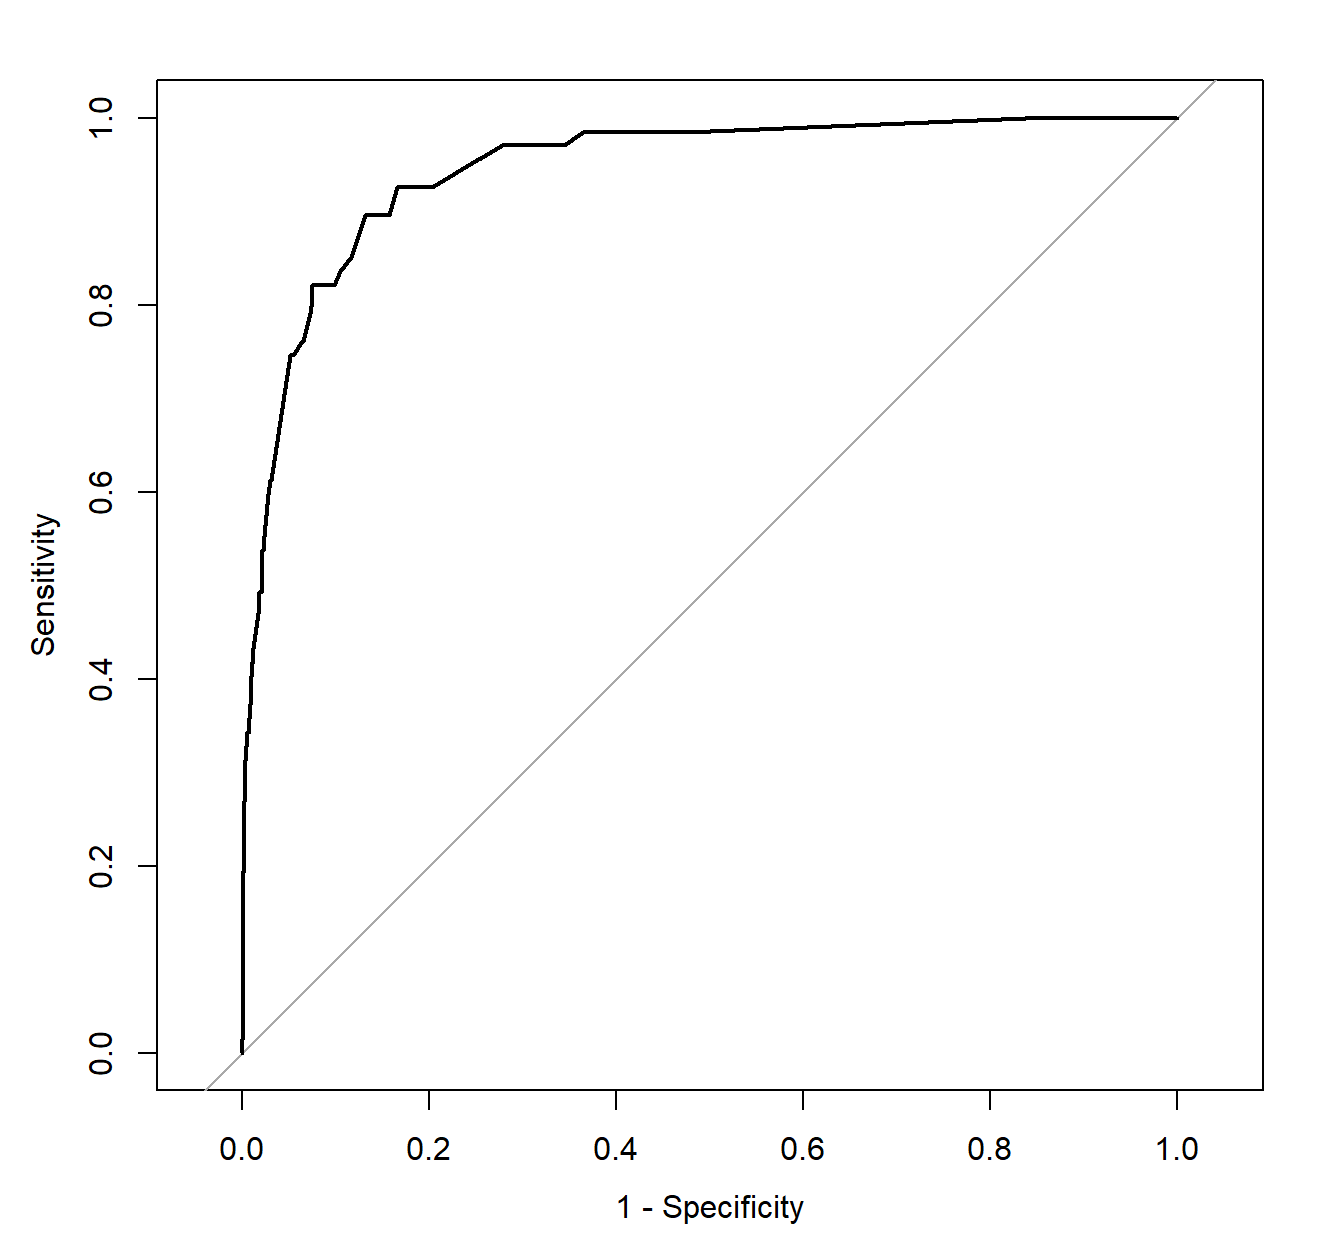
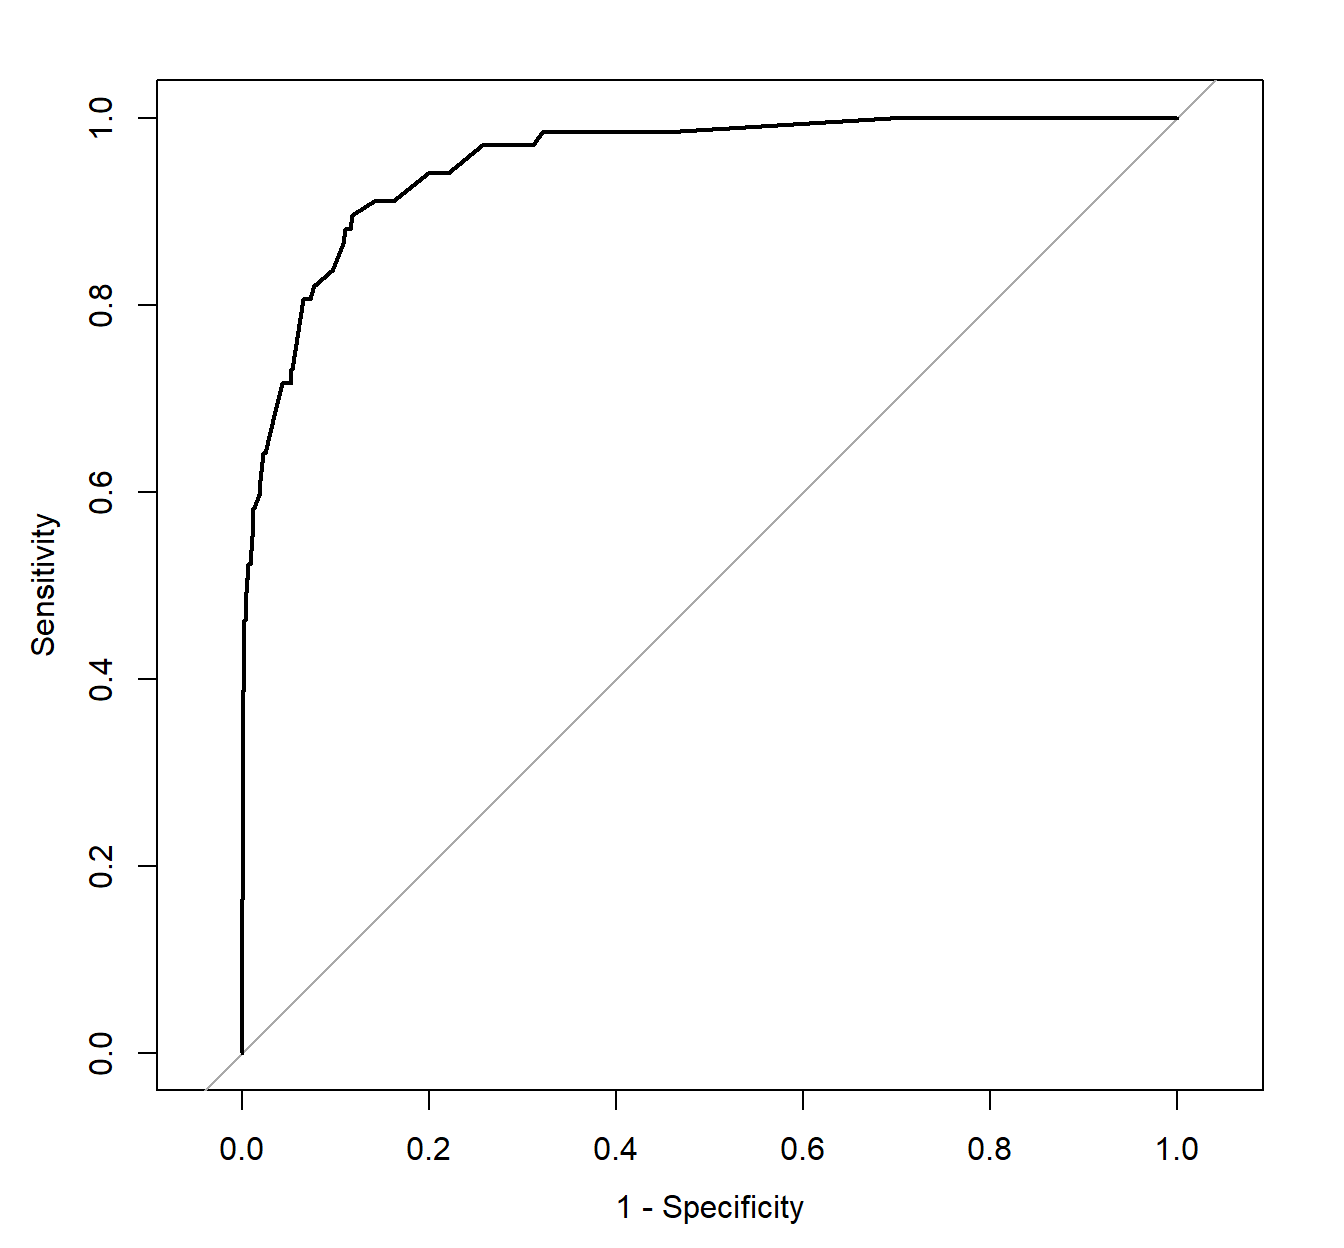
at13++

diff --git a/_site/semanas/Aula12.1.html b/_site/semanas/Aula12.1.html
@@ -711,19 +711,20 @@ Prediction  Nao  Sim
 <section id="verificando-a-consistencia-dos-resultados" class="level2">
 <h2 class="anchored" data-anchor-id="verificando-a-consistencia-dos-resultados">Verificando a consistencia dos resultados</h2>
 <div class="cell">
-<div class="sourceCode cell-code" id="cb34"><pre class="sourceCode r code-with-copy"><code class="sourceCode r"><span id="cb34-1"><a href="#cb34-1" aria-hidden="true" tabindex="-1"></a>y <span class="ot">&lt;-</span> credito<span class="sc">$</span>inadimplente</span>
-<span id="cb34-2"><a href="#cb34-2" aria-hidden="true" tabindex="-1"></a>indice_teste <span class="ot">&lt;-</span> <span class="fu">createDataPartition</span>(y, <span class="at">times =</span> <span class="dv">1</span>, <span class="at">p =</span> <span class="fl">0.2</span>, <span class="at">list =</span> <span class="cn">FALSE</span>)</span>
-<span id="cb34-3"><a href="#cb34-3" aria-hidden="true" tabindex="-1"></a></span>
-<span id="cb34-4"><a href="#cb34-4" aria-hidden="true" tabindex="-1"></a>conj_treino <span class="ot">&lt;-</span> credito <span class="sc">%&gt;%</span> <span class="fu">slice</span>(<span class="sc">-</span>indice_teste)</span>
-<span id="cb34-5"><a href="#cb34-5" aria-hidden="true" tabindex="-1"></a>conj_teste <span class="ot">&lt;-</span> credito <span class="sc">%&gt;%</span> <span class="fu">slice</span>(indice_teste)</span>
-<span id="cb34-6"><a href="#cb34-6" aria-hidden="true" tabindex="-1"></a></span>
-<span id="cb34-7"><a href="#cb34-7" aria-hidden="true" tabindex="-1"></a><span class="fu">str</span>(conj_treino)</span></code><button title="Copy to Clipboard" class="code-copy-button"><i class="bi"></i></button></pre></div>
+<div class="sourceCode cell-code" id="cb34"><pre class="sourceCode r code-with-copy"><code class="sourceCode r"><span id="cb34-1"><a href="#cb34-1" aria-hidden="true" tabindex="-1"></a><span class="fu">set.seed</span>(<span class="dv">121</span>)</span>
+<span id="cb34-2"><a href="#cb34-2" aria-hidden="true" tabindex="-1"></a>y <span class="ot">&lt;-</span> credito<span class="sc">$</span>inadimplente</span>
+<span id="cb34-3"><a href="#cb34-3" aria-hidden="true" tabindex="-1"></a>indice_teste <span class="ot">&lt;-</span> <span class="fu">createDataPartition</span>(y, <span class="at">times =</span> <span class="dv">1</span>, <span class="at">p =</span> <span class="fl">0.2</span>, <span class="at">list =</span> <span class="cn">FALSE</span>)</span>
+<span id="cb34-4"><a href="#cb34-4" aria-hidden="true" tabindex="-1"></a></span>
+<span id="cb34-5"><a href="#cb34-5" aria-hidden="true" tabindex="-1"></a>conj_treino <span class="ot">&lt;-</span> credito <span class="sc">%&gt;%</span> <span class="fu">slice</span>(<span class="sc">-</span>indice_teste)</span>
+<span id="cb34-6"><a href="#cb34-6" aria-hidden="true" tabindex="-1"></a>conj_teste <span class="ot">&lt;-</span> credito <span class="sc">%&gt;%</span> <span class="fu">slice</span>(indice_teste)</span>
+<span id="cb34-7"><a href="#cb34-7" aria-hidden="true" tabindex="-1"></a></span>
+<span id="cb34-8"><a href="#cb34-8" aria-hidden="true" tabindex="-1"></a><span class="fu">str</span>(conj_treino)</span></code><button title="Copy to Clipboard" class="code-copy-button"><i class="bi"></i></button></pre></div>
 <div class="cell-output cell-output-stdout">
 <pre><code>tibble [7,999 × 4] (S3: tbl_df/tbl/data.frame)
  $ inadimplente: Factor w/ 2 levels "Nao","Sim": 1 1 1 1 1 1 1 1 1 1 ...
- $ estudante   : num [1:7999] 0 1 0 0 0 1 0 0 0 1 ...
- $ balanco     : num [1:7999] 730 817 1074 529 786 ...
- $ receita     : num [1:7999] 44362 12106 31767 35704 38463 ...</code></pre>
+ $ estudante   : num [1:7999] 0 1 0 0 1 0 1 0 1 1 ...
+ $ balanco     : num [1:7999] 730 817 1074 786 920 ...
+ $ receita     : num [1:7999] 44362 12106 31767 38463 7492 ...</code></pre>
 </div>
 <div class="sourceCode cell-code" id="cb36"><pre class="sourceCode r code-with-copy"><code class="sourceCode r"><span id="cb36-1"><a href="#cb36-1" aria-hidden="true" tabindex="-1"></a><span class="fu">prop.table</span>(<span class="fu">table</span>(conj_treino<span class="sc">$</span>inadimplente))</span></code><button title="Copy to Clipboard" class="code-copy-button"><i class="bi"></i></button></pre></div>
 <div class="cell-output cell-output-stdout">
@@ -735,9 +736,9 @@ Prediction  Nao  Sim
 <div class="cell-output cell-output-stdout">
 <pre><code>tibble [2,001 × 4] (S3: tbl_df/tbl/data.frame)
  $ inadimplente: Factor w/ 2 levels "Nao","Sim": 1 1 1 1 1 1 1 1 1 1 ...
- $ estudante   : num [1:2001] 1 1 0 0 0 0 0 1 1 1 ...
- $ balanco     : num [1:2001] 809 1221 237 229 855 ...
- $ receita     : num [1:2001] 17600 13269 28252 50500 25211 ...</code></pre>
+ $ estudante   : num [1:2001] 0 0 0 1 0 0 1 1 0 0 ...
+ $ balanco     : num [1:2001] 529 1161 1113 1500 1152 ...
+ $ receita     : num [1:2001] 35704 37469 23810 13191 42917 ...</code></pre>
 </div>
 <div class="sourceCode cell-code" id="cb40"><pre class="sourceCode r code-with-copy"><code class="sourceCode r"><span id="cb40-1"><a href="#cb40-1" aria-hidden="true" tabindex="-1"></a><span class="fu">prop.table</span>(<span class="fu">table</span>(conj_teste<span class="sc">$</span>inadimplente))</span></code><button title="Copy to Clipboard" class="code-copy-button"><i class="bi"></i></button></pre></div>
 <div class="cell-output cell-output-stdout">
@@ -831,27 +832,27 @@ Prediction  Nao  Sim
 <span id="cb48-30"><a href="#cb48-30" aria-hidden="true" tabindex="-1"></a>hiper_grid <span class="sc">%&gt;%</span> dplyr<span class="sc">::</span><span class="fu">arrange</span>(min_erro) <span class="sc">%&gt;%</span> <span class="fu">head</span>(<span class="dv">10</span>)</span></code><button title="Copy to Clipboard" class="code-copy-button"><i class="bi"></i></button></pre></div>
 <div class="cell-output cell-output-stdout">
 <pre><code>   shrinkage interaction.depth n.minobsinnode bag.fraction optimal_trees
-1       0.10                 1              5         1.00           193
-2       0.01                 1              5         1.00          1857
-3       0.10                 1             10         1.00           175
-4       0.10                 1              5         0.65           132
-5       0.10                 1             15         1.00           154
-6       0.01                 1             10         1.00          1696
-7       0.10                 1             10         0.65           179
-8       0.10                 1             15         0.65           179
-9       0.01                 1             15         1.00          1556
-10      0.01                 1              5         0.65          1208
+1       0.10                 1             15         0.65           142
+2       0.10                 1             10         0.65           142
+3       0.10                 1              5         0.65            84
+4       0.10                 1              5         1.00           155
+5       0.01                 1              5         1.00          1592
+6       0.10                 1             10         1.00           136
+7       0.10                 1             15         1.00           136
+8       0.01                 1              5         0.65          1002
+9       0.01                 1             10         1.00           940
+10      0.01                 1             15         1.00           940
     min_erro
-1  0.1502556
-2  0.1506188
-3  0.1506563
-4  0.1507657
-5  0.1507786
-6  0.1510440
-7  0.1510978
-8  0.1511139
-9  0.1511334
-10 0.1512083</code></pre>
+1  0.1602066
+2  0.1602292
+3  0.1604008
+4  0.1607106
+5  0.1608038
+6  0.1611587
+7  0.1611587
+8  0.1611858
+9  0.1612577
+10 0.1612577</code></pre>
 </div>
 </div>
 </section>
@@ -892,9 +893,9 @@ Prediction  Nao  Sim
 </div>
 <div class="cell-output cell-output-stdout">
 <pre><code>                var    rel.inf
-balanco     balanco 99.3049753
-estudante estudante  0.3541423
-receita     receita  0.3408824</code></pre>
+balanco     balanco 99.2361652
+estudante estudante  0.4480848
+receita     receita  0.3157499</code></pre>
 </div>
 </div>
 </section>
@@ -911,7 +912,7 @@ receita     receita  0.3408824</code></pre>
 <span id="cb53-8"><a href="#cb53-8" aria-hidden="true" tabindex="-1"></a>                     <span class="at">type =</span> <span class="st">"response"</span>)</span>
 <span id="cb53-9"><a href="#cb53-9" aria-hidden="true" tabindex="-1"></a><span class="fu">head</span>(previsao1)</span></code><button title="Copy to Clipboard" class="code-copy-button"><i class="bi"></i></button></pre></div>
 <div class="cell-output cell-output-stdout">
-<pre><code>[1] 0.001899747 0.009876236 0.002502048 0.003059500 0.002502048 0.002502048</code></pre>
+<pre><code>[1] 0.002456101 0.015887955 0.013762373 0.099006852 0.015887955 0.002456101</code></pre>
 </div>
 <div class="sourceCode cell-code" id="cb55"><pre class="sourceCode r code-with-copy"><code class="sourceCode r"><span id="cb55-1"><a href="#cb55-1" aria-hidden="true" tabindex="-1"></a>gbm.ychapeu <span class="ot">&lt;-</span> <span class="fu">as.factor</span>(<span class="fu">ifelse</span>(previsao1 <span class="sc">&lt;</span> <span class="fl">0.5</span>,<span class="dv">0</span>,<span class="dv">1</span>))</span>
 <span id="cb55-2"><a href="#cb55-2" aria-hidden="true" tabindex="-1"></a> </span>
@@ -921,29 +922,29 @@ receita     receita  0.3408824</code></pre>
 
           Reference
 Prediction    0    1
-         0 1926   45
-         1    8   22
-                                          
-               Accuracy : 0.9735          
-                 95% CI : (0.9655, 0.9801)
-    No Information Rate : 0.9665          
-    P-Value [Acc &gt; NIR] : 0.04298         
-                                          
-                  Kappa : 0.4421          
-                                          
- Mcnemar's Test P-Value : 7.615e-07       
-                                          
-            Sensitivity : 0.32836         
-            Specificity : 0.99586         
-         Pos Pred Value : 0.73333         
-         Neg Pred Value : 0.97717         
-             Prevalence : 0.03348         
-         Detection Rate : 0.01099         
-   Detection Prevalence : 0.01499         
-      Balanced Accuracy : 0.66211         
-                                          
-       'Positive' Class : 1               
-                                          </code></pre>
+         0 1933   50
+         1    1   17
+                                         
+               Accuracy : 0.9745         
+                 95% CI : (0.9666, 0.981)
+    No Information Rate : 0.9665         
+    P-Value [Acc &gt; NIR] : 0.02354        
+                                         
+                  Kappa : 0.3914         
+                                         
+ Mcnemar's Test P-Value : 1.801e-11      
+                                         
+            Sensitivity : 0.253731       
+            Specificity : 0.999483       
+         Pos Pred Value : 0.944444       
+         Neg Pred Value : 0.974786       
+             Prevalence : 0.033483       
+         Detection Rate : 0.008496       
+   Detection Prevalence : 0.008996       
+      Balanced Accuracy : 0.626607       
+                                         
+       'Positive' Class : 1              
+                                         </code></pre>
 </div>
 </div>
 </section>
@@ -976,7 +977,7 @@ Attaching package: 'pROC'</code></pre>
 </div>
 <div class="sourceCode cell-code" id="cb64"><pre class="sourceCode r code-with-copy"><code class="sourceCode r"><span id="cb64-1"><a href="#cb64-1" aria-hidden="true" tabindex="-1"></a><span class="fu">as.numeric</span>(roc_gbm<span class="sc">$</span>auc)</span></code><button title="Copy to Clipboard" class="code-copy-button"><i class="bi"></i></button></pre></div>
 <div class="cell-output cell-output-stdout">
-<pre><code>[1] 0.945172</code></pre>
+<pre><code>[1] 0.9536804</code></pre>
 </div>
 </div>
 
